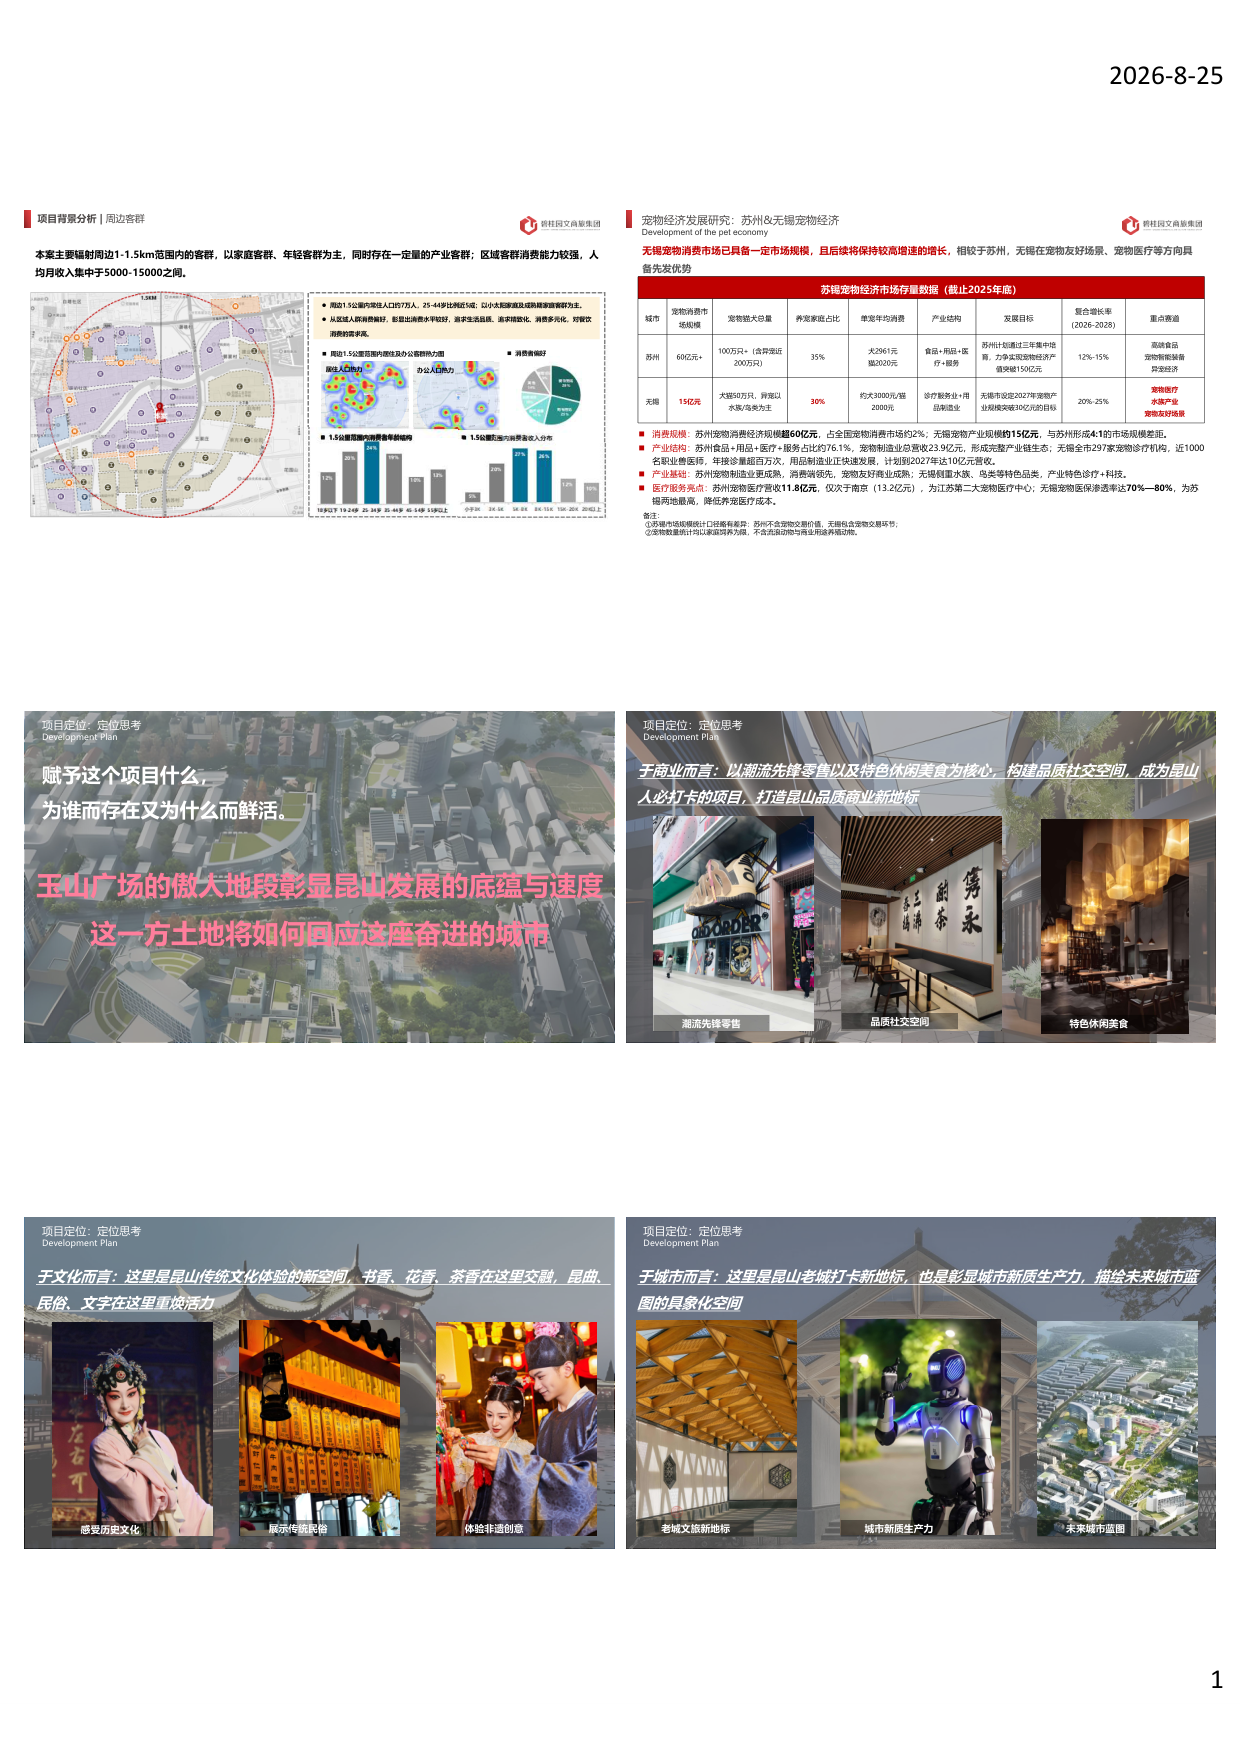
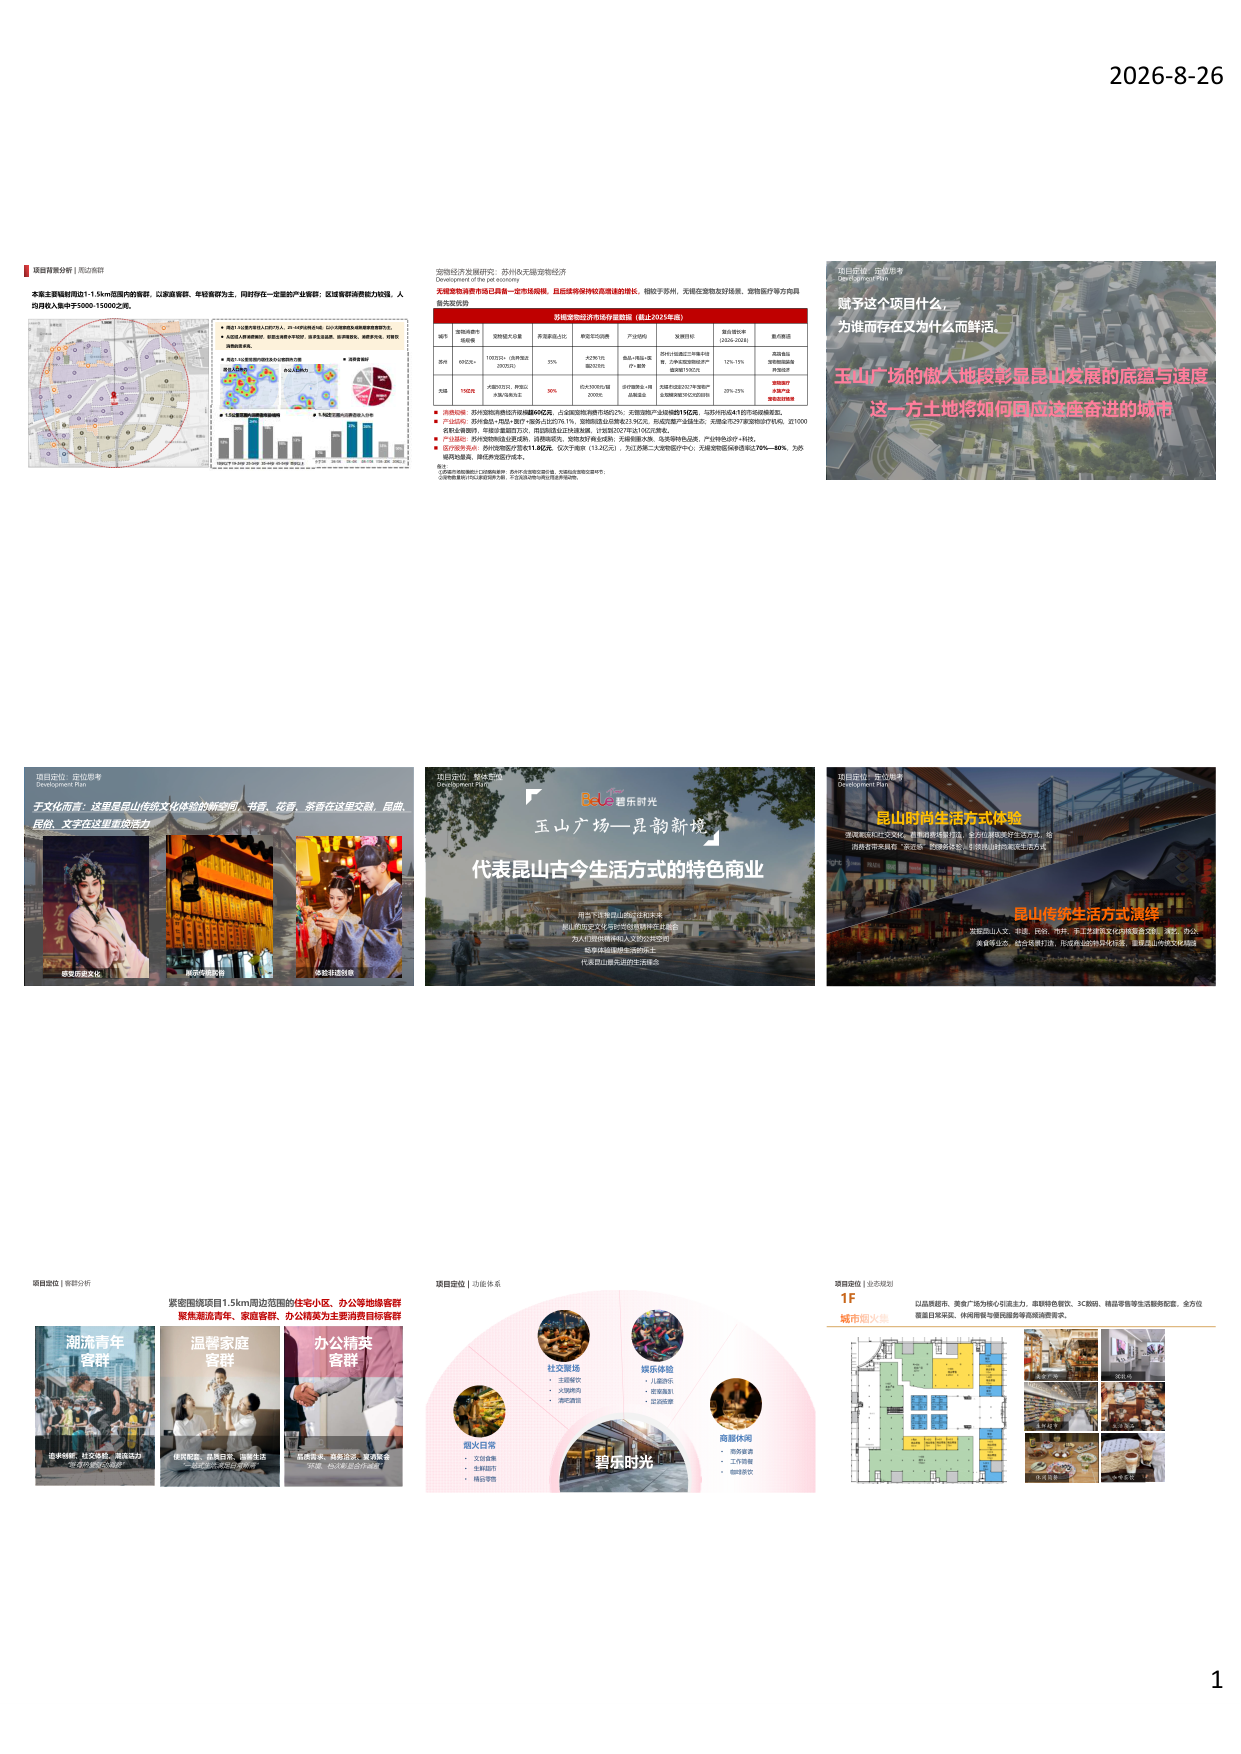
更新: 碧桂园·定位策划改为商业市场研究与定位策划，图片换为两PDF

diff --git a/index.html b/index.html
@@ -76,7 +76,7 @@
               <span class="sidebar__nav-num">6</span><span>碧桂园 · 投资研策</span>
             </a>
             <ol class="sidebar__nav-sub">
-              <li><a class="sidebar__nav-sub-link" href="#w-bgy-position" data-target="w-bgy-position" data-group="bgy">定位策划</a></li>
+              <li><a class="sidebar__nav-sub-link" href="#w-bgy-position" data-target="w-bgy-position" data-group="bgy">商业市场研究与定位策划</a></li>
               <li><a class="sidebar__nav-sub-link" href="#w-bgy-invest" data-target="w-bgy-invest" data-group="bgy">投资测算</a></li>
             </ol>
           </li>
@@ -144,7 +144,7 @@
       <div class="hero__intro">
         <div class="hero__eyebrow reveal">
           <span class="hero__pulse"></span>
-          Product Manager · 产品设计 · 数据驱动
+          Business Strategy · 产品设计 · 数据驱动
         </div>
         <h2 class="hero__title reveal">
           尚文蜓
@@ -152,7 +152,7 @@
         </h2>
 
         <p class="hero__lead reveal">
-          作品集记录我在<span>快手</span>、<span>安克创新</span>等产品经理、运营工作经历里，定义功能、推动产品落地的过程 —— 核心能力是明确用户需求、业务场景目标并使用数据驱动<strong>产品设计、数据分析、竞品分析、需求分析、用户研究、策略优化</strong>等。
+          作品集记录我在<span>快手</span>、<span>安克创新</span>的产品与运营实践，记录功能设计、产品落地及运营迭代全流程 —— 核心能力是围绕用户诉求与业务目标，依托数据分析驱动<strong>需求拆解、竞品分析、用户研究、策略优化、产品设计</strong>等。
         </p>
 
         <div class="hero__meta reveal">
@@ -194,7 +194,7 @@
       </header>
 
       <p class="section__lede reveal">
-        我是尚文蜓，暨南大学金融科技硕士保研、辽宁大学金融学本科双一流专业。中共党员，连续两年获国家励志奖学金。
+        我是尚文蜓，保研暨南大学金融科技硕士、辽宁大学金融学本科双一流专业。中共党员，连续两年获国家励志奖学金。
       </p>
 
       <div class="about__grid reveal">
@@ -204,7 +204,7 @@
         </div>
         <div class="about__copy">
           <p><strong>AI工程：</strong>开发竞品分析、策划报告生成等Agent，基于Claude Code、Codex等AI工具将业务拆解为标准化工作流，完成需求拆解、信息采集、分析推理、报告产出等全链路执行；<strong>单份报告节省人工整理工作时长5小时。</strong></p>
-          <p><strong>产品热爱：</strong>重度3C消费电子爱好者,持有影像设备(微单/无人机/运动相机等)、全品类音频、智能穿戴、智能家居等30余种3C消费电子产品,熟悉软硬件核心参数,关注芯片传感器、AI应用等技术演进,善于从原理层理解对比产品体验。</p>
+          <p><strong>产品热爱：</strong>重度3C消费电子爱好者,持有影像设备(微单/无人机/运动相机等)、全品类音频、智能穿戴、智能家居等30余种3C消费电子产品,熟悉软硬件核心参数,关注芯片传感器、AI应用等技术演进,善于从原理层及用户需求理解对比产品体验。</p>
         </div>
       </div>
 
@@ -219,14 +219,14 @@
       </header>
 
       <p class="section__lede reveal">
-        以下四项能力贯穿过去所有工作 —— 它们不是分散的标签，而是同一套产品思维在不同业务里的四种表达方式。
+        以下四项能力贯穿过去所有工作 —— 用综合能力，支撑产品设计与运营优化。
       </p>
 
       <div class="capabilities">
         <div class="capability reveal">
           <div class="capability__num">— i</div>
           <h3 class="capability__title">功能定义 &amp; 逻辑设计</h3>
-          <p class="capability__desc">独立完成从用户需求洞察到功能设计落地的全链路闭环：业务场景拆解、用户路径梳理、功能方案输出、原型设计、PRD 撰写。让功能可被理解、可被开发、可被验证、有用户价值。</p>
+          <p class="capability__desc">独立完成从用户需求洞察到功能设计落地的全链路闭环：业务场景拆解、用户路径梳理、功能方案输出、原型设计、PRD 撰写。让功能有价值、可被理解、可被开发、可被验证。</p>
           <div class="capability__tags">
             <span class="capability__tag">需求分析</span>
             <span class="capability__tag">功能设计</span>
@@ -239,7 +239,7 @@
         <div class="capability reveal reveal-delay-1">
           <div class="capability__num">— ii</div>
           <h3 class="capability__title">数据分析 &amp; 策略调整</h3>
-          <p class="capability__desc">SQL 取数、Tableau 业务看板、多维用户画像与精准圈选；用 ROI / 转化率 / 漏斗等指标反推产品迭代方向。完成数据监控 → 策略调整。</p>
+          <p class="capability__desc">SQL 取数分析、Tableau 看板搭建；用 ROI / 转化率 / 漏斗等指标反推产品迭代方向。完成数据监控 → 策略调整。</p>
           <div class="capability__tags">
             <span class="capability__tag">SQL</span>
             <span class="capability__tag">Tableau</span>
@@ -324,8 +324,8 @@
         <article class="work work--image-led reveal" id="w-voc">
           <div class="work__header">
             <div class="work__tag">Anker 产品设计 · 核心功能</div>
-            <h4 class="work__title">VOC 自动化报告</h4>
-            <div class="work__sub">独立负责平台核心功能:字段定义、逻辑设计、界面设计，实现数据自动AI流转分析产品测试的用户声音，支持产品上市决策，报告产出由数天缩至小时级</div>
+            <h4 class="work__title">用户测试自动化报告</h4>
+            <div class="work__sub">独立牵头平台核心功能设计，完成功能逻辑与界面方案设计，AI自动化数据流转，实现用户反馈智能解析，为产品上市提供决策支撑，报告产出由数天缩至小时级</div>
           </div>
 
           <figure class="work__hero" data-modal="assets/pdf_hi/voc_p1.png" data-alt="VOC 自动化报告 · 页面 1" data-group="voc">
@@ -351,8 +351,8 @@
         <article class="work work--image-led reveal" id="w-xtest">
           <div class="work__header">
             <div class="work__tag">Anker 产品设计 · 业务原型</div>
-            <h4 class="work__title">XTest 平台 · 需求文档与 Axure 交互原型</h4>
-            <div class="work__sub">招募 → 筛选 → 协议 → 寄件 → 任务 → 数据分析 → 报告产出<br><span class="work__sub-line2">从0到1的新功能设计与流程优化</span></div>
+            <h4 class="work__title">用户测试平台 · 需求文档与 Axure 交互原型</h4>
+            <div class="work__sub">公司级用户测试平台功能设计，统一全产品线β测试与用户调研规范<br><span class="work__sub-line2">新功能设计与全流程优化 · 招募 → 筛选 → 协议 → 寄件 → 任务 → 数据分析 → 报告产出</span></div>
           </div>
 
           <figure class="work__hero" data-modal="assets/pdf_hi/ankerx_p1.png" data-alt="XTest 需求文档 · 页面 1" data-group="ankerx">
@@ -382,11 +382,11 @@
             <span class="stage__num">5</span>
             <div>
               <h3 class="stage__title">快手广告投放</h3>
-              <div class="stage__meta">C 端策略优化 · B 端客户复盘及运营优化 · 2023—2024</div>
+              <div class="stage__meta">C 端策略优化 · B 端客户复盘及运营优化</div>
             </div>
           </div>
           <div class="stage__intro">
-            <p>快手广告投放期间的数据分析与问题拆解，负责C端用户策略优化与B端客户运营优化，覆盖 A/B 实验验证与投放效率提升。</p>
+            <p>短剧广告投放的数据分析与问题拆解，负责C端用户策略优化与B端客户运营优化，覆盖 A/B 实验验证与投放效率提升。</p>
           </div>
         </header>
 
@@ -412,7 +412,7 @@
           <div class="work__header">
             <div class="work__tag">快手广告 · B 端客户复盘及运营优化</div>
             <h4 class="work__title">客户投放复盘与运营策略优化</h4>
-            <div class="work__sub">消耗规模 / 流量资源 / 广告场景整体回顾 · 指标对比大盘 vs 麦芽 · 输出运营优化方案</div>
+            <div class="work__sub">投放数据、策略复盘、运营优化方案 /     消耗规模 · 流量资源 · 投放策略 · 工具使用</div>
           </div>
 
           <figure class="work__hero" data-modal="assets/ks/ks_b_review_p1.png" data-alt="B 端客户复盘及运营优化" data-group="ks-b">
@@ -442,24 +442,24 @@
             <span class="stage__num">6</span>
             <div>
               <h3 class="stage__title">碧桂园 · 投资研策</h3>
-              <div class="stage__meta">定位策划 · 投资测算 · 2022</div>
+              <div class="stage__meta">商业市场研究与定位策划 · 投资测算 · 运营方案</div>
             </div>
           </div>
           <div class="stage__intro">
-            <p>投资研究阶段的定位策划与投资测算：明确项目定位逻辑，并完成投资回报测算，支撑拿地与方案决策。</p>
+            <p>项目投资的定位策划与投资测算：明确项目客群及定位逻辑，并完成投资回报测算，支撑拿地与方案决策。</p>
           </div>
         </header>
 
-        <!-- 定位策划 -->
+        <!-- 商业市场研究与定位策划 -->
         <article class="work work--image-led reveal" id="w-bgy-position">
           <div class="work__header">
-            <div class="work__tag">碧桂园投资研策 · 定位策划</div>
-            <h4 class="work__title">项目定位策划</h4>
-            <div class="work__sub">竞品分析、客群与产品定位策划 、运营策略制定</div>
+            <div class="work__tag">碧桂园投资研策 · 商业市场研究与定位策划</div>
+            <h4 class="work__title">商业市场研究与定位策划</h4>
+            <div class="work__sub">新兴消费研究、竞品分析、客群与产品定位策划 、运营策略制定</div>
           </div>
 
-          <figure class="work__hero" data-modal="assets/bgy/bgy_positioning_p1.png" data-alt="定位策划 · 页面 1" data-group="bgy-pos">
-            <img src="assets/bgy/bgy_positioning_p1.png" alt="定位策划" />
+          <figure class="work__hero" data-modal="assets/bgy/bgy_market_p1.png" data-alt="商业市场研究 · 页面 1" data-group="bgy-pos">
+            <img src="assets/bgy/bgy_market_p1.png" alt="商业市场研究" />
             <span class="work__zoom">
               <svg width="14" height="14" viewBox="0 0 24 24" fill="none" stroke="currentColor" stroke-width="1.8"><circle cx="11" cy="11" r="7"/><path d="m21 21-4.3-4.3M8 11h6M11 8v6"/></svg>
               点击查看
@@ -467,10 +467,10 @@
           </figure>
 
           <div class="page-strip">
-            <div class="page-strip__label">定位策划 · 2 页</div>
+            <div class="page-strip__label">商业市场研究 + 定位策划 · 2 页</div>
             <div class="page-strip__grid">
-              <div class="page-strip__item" data-modal="assets/bgy/bgy_positioning_p1.png" data-alt="定位策划 · 页面 1" data-group="bgy-pos"><img src="assets/bgy/bgy_positioning_p1.png" alt="定位策划 p1" /><span class="page-strip__num">1</span></div>
-              <div class="page-strip__item" data-modal="assets/bgy/bgy_positioning_p2.png" data-alt="定位策划 · 页面 2" data-group="bgy-pos"><img src="assets/bgy/bgy_positioning_p2.png" alt="定位策划 p2" /><span class="page-strip__num">2</span></div>
+              <div class="page-strip__item" data-modal="assets/bgy/bgy_market_p1.png" data-alt="商业市场研究 · 页面 1" data-group="bgy-pos"><img src="assets/bgy/bgy_market_p1.png" alt="商业市场研究 p1" /><span class="page-strip__num">1</span></div>
+              <div class="page-strip__item" data-modal="assets/bgy/bgy_positioning_p1.png" data-alt="定位策划 · 页面 1" data-group="bgy-pos"><img src="assets/bgy/bgy_positioning_p1.png" alt="定位策划 p1" /><span class="page-strip__num">2</span></div>
             </div>
           </div>
         </article>
@@ -508,7 +508,7 @@
             <span class="stage__num">7</span>
             <div>
               <h3 class="stage__title">独立项目</h3>
-              <div class="stage__meta">行业研究 · 运营 · 数据分析 · 机器学习 · 工具开发</div>
+              <div class="stage__meta">行业研究 · 数据分析 · 机器学习 · 工具开发 · 战略规划</div>
             </div>
           </div>
           <div class="stage__intro">
@@ -550,7 +550,7 @@
           <div class="work__header">
             <div class="work__tag">实习项目 · 行业研究</div>
             <h4 class="work__title">鼎泰高科 (301377) 已发表的深度行业研究报告</h4>
-            <div class="work__sub">行业格局分析 · 产业链拆解· 可比公司对标· 财务建模· 撰写深度行业报告</div>
+            <div class="work__sub">行业格局分析 · 产业链拆解 · 可比公司对标· 财务建模· 数据交叉验证</div>
           </div>
 
           <figure class="work__hero" data-modal="assets/pdf_pages/guolian_p1.png" data-alt="鼎泰高科深度研究 · 页面 1" data-group="guolian">
@@ -655,7 +655,7 @@
       </header>
 
       <p class="section__lede reveal">
-        山河之间，世界尽展。这些是 2024 — 2026 年用微单与无人机在路上留下的片段。
+        山河之间，世界尽展。这些是 2024 — 2026 年用微单与无人机在路上留下的精彩片段。
       </p>
 
       <div class="photo-grid">
@@ -732,16 +732,16 @@
 
       <div class="interests__grid reveal">
         <div class="interest">
-          <span class="interest__name">旅行及摄影</span>
+          <span class="interest__name">旅行&摄影</span>
           <span class="interest__note">探索并记录世界，持有微单、无人机、运动相机、Pocket设备，已环游32个省级行政区</span>
         </div>
         <div class="interest">
-          <span class="interest__name">骑行</span>
+          <span class="interest__name">骑行&户外</span>
           <span class="interest__note">月均骑行500km，完成成都100km绿道骑行、阳澄湖100km环湖骑行</span>
         </div>
         <div class="interest">
-          <span class="interest__name">阅读</span>
-          <span class="interest__note">保持学习进步，读好书，吸纳智人半生智慧；了解心理学，研习人和社会潜藏的规律。</span>
+          <span class="interest__name">阅读&学习</span>
+          <span class="interest__note">保持学习进步，读好书，吸纳智人智慧；了解心理学，研习人和社会潜藏的规律；了解新科技，保持前沿敏感。</span>
         </div>
         <div class="interest">
           <span class="interest__name">3C消费电子</span>
@@ -772,7 +772,7 @@
         <div class="honor reveal reveal-delay-1">
           <span class="honor__level">省优秀奖</span>
           <h3 class="honor__title">智慧经济创新创业大赛</h3>
-          <p class="honor__desc">团队负责人进行论文撰写及答辩；联合计算机学院同学实现基于 LSTM 深度学习算法模型的股价时间序列预测，成功预测 50 支股票一个月内行情。</p>
+          <p class="honor__desc">作为团队负责人进行论文撰写及答辩；联合计算机学院同学实现基于 LSTM 深度学习算法模型的股价时间序列预测，成功预测 50 支股票一个月内行情。</p>
         </div>
 
         <div class="honor reveal reveal-delay-2">
@@ -783,8 +783,8 @@
 
         <div class="honor reveal reveal-delay-3">
           <span class="honor__level">外聘技术专家</span>
-          <h3 class="honor__title">电网咨询项目 · 对标分析</h3>
-          <p class="honor__desc">实习结束后被原公司邀请担任技术专家，独立完成 16 家企业的经营管理、投资发展、业务发展等方向的对标分析。</p>
+          <h3 class="honor__title">电网咨询项目 · 投资分析</h3>
+          <p class="honor__desc">由于金融及数理知识较强，实习结束后被原公司邀请担任技术专家，独立完成企业客户的经营管理、投资发展、业务发展等方向的分析并给出投资与业务规划建议。</p>
         </div>
 
         <div class="honor reveal reveal-delay-4">
@@ -797,8 +797,8 @@
         <div class="honor reveal reveal-delay-5">
           <span class="honor__level">课程成果</span>
           <h3 class="honor__title">机器学习 / Python / 数据挖掘</h3>
-          <span class="honor__date">硕士期间</span>
-          <p class="honor__desc">暨南大学金融科技硕士核心课程成绩：机器学习 97 · Python 93 · 数据挖掘 92 · 区块链技术 94 · 金融衍生工具 90 · 财务报表分析 93。</p>
+          <span class="honor__date">课程成绩</span>
+          <p class="honor__desc">高等数学上 100 · 机器学习 97 · Python 93 · 数据挖掘 92 · 高等数学下 100 · 概率论与数理统计 94 · 区块链技术 94 · 财务报表分析 93</p>
         </div>
       </div>
     </section>
@@ -812,7 +812,7 @@
       </header>
 
       <p class="section__lede section__lede--dark reveal">
-        期待与您的对话 —— 无论是产品机会，还是一次关于AI或消费电子的闲聊。
+        期待与您的对话 —— 无论是工作机会，还是一次关于AI或消费电子的闲聊。
       </p>
 
       <div class="contact__grid reveal">
